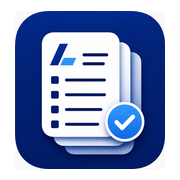
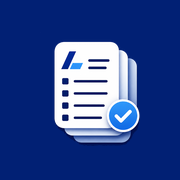
PWAアイコンの二重角丸フレーム・白余白を解消し、独自起動画面を廃止
【問題の原因】
これまでのアイコンは、ロゴ本体の「紺色の角丸四角」をそのまま画像に
焼き込んだ状態で、通常アイコンには白い余白付きで、maskableアイコンは
それをさらに縮小して別の紺色背景に貼り付けていたため、
・ホーム画面でアイコンが小さく見える(白余白の分だけ実質縮小)
・Android自身が適用する角丸/円形マスクと、画像内の角丸四角が重なり
  二重・三重の角丸に見える
という問題が起きていた。

【対応】
- 元ロゴから「紺色の角丸四角の背景」を完全に除去し、書類+チェックマーク
  のモチーフだけをフラッドフィルで抽出(public/icons/source-logo.pngは
  そのまま保持、再抽出はいつでも可能)
- 通常アイコン(icon-192-v2.png, icon-512-v2.png, apple-icon.png,
  favicon)は、画面全体を紺色(#012074)でフルブリードに埋め、モチーフを
  中央64%に配置。角丸四角の外枠は一切描画せず、OS側のマスクに任せる
- maskableアイコン(icon-maskable-512-v2.png)も同様にフルブリード紺色+
  モチーフを中央58%に配置し、通常アイコンより広い安全マージンを確保。
  円形/角丸/しずく形に切り抜いてもモチーフが欠けないことを確認済み
- manifestのiconsをany/maskableそれぞれ専用ファイルに分離
  (同一ファイルに"any maskable"をまとめて指定しない)
- 旧アイコン(icon-192.png等)は削除し、ファイル名をv2に変更してmanifestの
  参照も更新。ブラウザ側の更新検知のためservice workerのバージョン
  目印コメントも更新

【独自起動画面の廃止】
このアプリはNext.jsのサーバーサイドレンダリングで初期表示が高速なため、
「Android/PWA標準のスプラッシュ」と「アプリ独自のローディング画面」が
連続表示される問題を解消する目的で、独自スプラッシュ画面(前回追加した
pwa-splashのマークアップ・CSS)を削除した。ホーム画面から起動した際は
manifestのicons/background_color/theme_color(いずれも新ロゴと同じ紺色
に統一済み)を使ったAndroid標準の起動画面のみが表示される。

PWAのインストール機能・オフライン処理・ルーティング・認証・Supabase・
各画面のUIは変更していない。ロゴのデザイン(色・形・書類・チェック
マーク)自体も一切変更していない。

diff --git a/web/app/globals.css b/web/app/globals.css
@@ -48,81 +48,3 @@ body {
 .thin-scrollbar::-webkit-scrollbar-track {
   background: transparent;
 }
-
-/* PWA起動画面(ホーム画面から起動した時だけ表示し、通常のブラウザ表示では出さない) */
-.pwa-splash {
-  position: fixed;
-  inset: 0;
-  z-index: 9999;
-  display: none;
-  flex-direction: column;
-  align-items: center;
-  justify-content: center;
-  background: #f4f7ff;
-  animation: pwa-splash-fade-out 0.4s ease forwards;
-  animation-delay: 700ms;
-}
-
-@media (display-mode: standalone) {
-  .pwa-splash {
-    display: flex;
-  }
-}
-
-.pwa-splash-icon {
-  width: 22vw;
-  height: 22vw;
-  min-width: 72px;
-  min-height: 72px;
-  max-width: 112px;
-  max-height: 112px;
-}
-
-.pwa-splash-title {
-  margin-top: 16px;
-  font-size: 18px;
-  font-weight: 700;
-  color: #012074;
-}
-
-.pwa-splash-subtitle {
-  margin-top: 4px;
-  font-size: 12px;
-  color: #4b5563;
-}
-
-.pwa-splash-spinner {
-  margin-top: 20px;
-  width: 22px;
-  height: 22px;
-  border-radius: 9999px;
-  border: 3px solid #c7d9fb;
-  border-top-color: #012074;
-  animation: pwa-splash-spin 0.8s linear infinite;
-}
-
-@keyframes pwa-splash-fade-out {
-  to {
-    opacity: 0;
-    visibility: hidden;
-    pointer-events: none;
-  }
-}
-
-@keyframes pwa-splash-spin {
-  to {
-    transform: rotate(360deg);
-  }
-}
-
-@media (prefers-color-scheme: dark) {
-  .pwa-splash {
-    background: #0b1220;
-  }
-  .pwa-splash-title {
-    color: #7fa1ff;
-  }
-  .pwa-splash-subtitle {
-    color: #9aa4b2;
-  }
-}

diff --git a/web/app/layout.tsx b/web/app/layout.tsx
@@ -19,13 +19,6 @@ export default function RootLayout({ children }: { children: React.ReactNode }) 
     <html lang="ja" className="h-full">
       <body className="min-h-full bg-gray-50 text-gray-900 antialiased">
         <RegisterServiceWorker />
-        {/* ホーム画面から起動した(PWAとしてインストール済みの)時だけ表示する起動画面 */}
-        <div className="pwa-splash">
-          <img src="/icons/icon-192.png" alt="" className="pwa-splash-icon" />
-          <div className="pwa-splash-title">業務管理</div>
-          <div className="pwa-splash-subtitle">勤怠・売上・帳票管理</div>
-          <div className="pwa-splash-spinner" />
-        </div>
         {children}
       </body>
     </html>

diff --git a/web/app/manifest.ts b/web/app/manifest.ts
@@ -10,9 +10,9 @@ export default function manifest(): MetadataRoute.Manifest {
     background_color: '#ffffff',
     theme_color: '#012074',
     icons: [
-      { src: '/icons/icon-192.png', sizes: '192x192', type: 'image/png', purpose: 'any' },
-      { src: '/icons/icon-512.png', sizes: '512x512', type: 'image/png', purpose: 'any' },
-      { src: '/icons/icon-maskable-512.png', sizes: '512x512', type: 'image/png', purpose: 'maskable' },
+      { src: '/icons/icon-192-v2.png', sizes: '192x192', type: 'image/png', purpose: 'any' },
+      { src: '/icons/icon-512-v2.png', sizes: '512x512', type: 'image/png', purpose: 'any' },
+      { src: '/icons/icon-maskable-512-v2.png', sizes: '512x512', type: 'image/png', purpose: 'maskable' },
     ],
   }
 }

diff --git a/web/public/sw.js b/web/public/sw.js
@@ -1,6 +1,6 @@
 // 業務データは常に最新を取得したいため、積極的なキャッシュは行わない。
 // ホーム画面へのインストールを可能にするための最小限のservice workerです。
-// v2-logo: このコメント自体がファイルの内容を変え、ブラウザに更新を検知させる
+// v3-logo-fix: このコメント自体がファイルの内容を変え、ブラウザに更新を検知させる
 // ためのバージョン目印です（アイコン差し替えなどを速やかに反映させる目的）。
 
 self.addEventListener('install', () => {